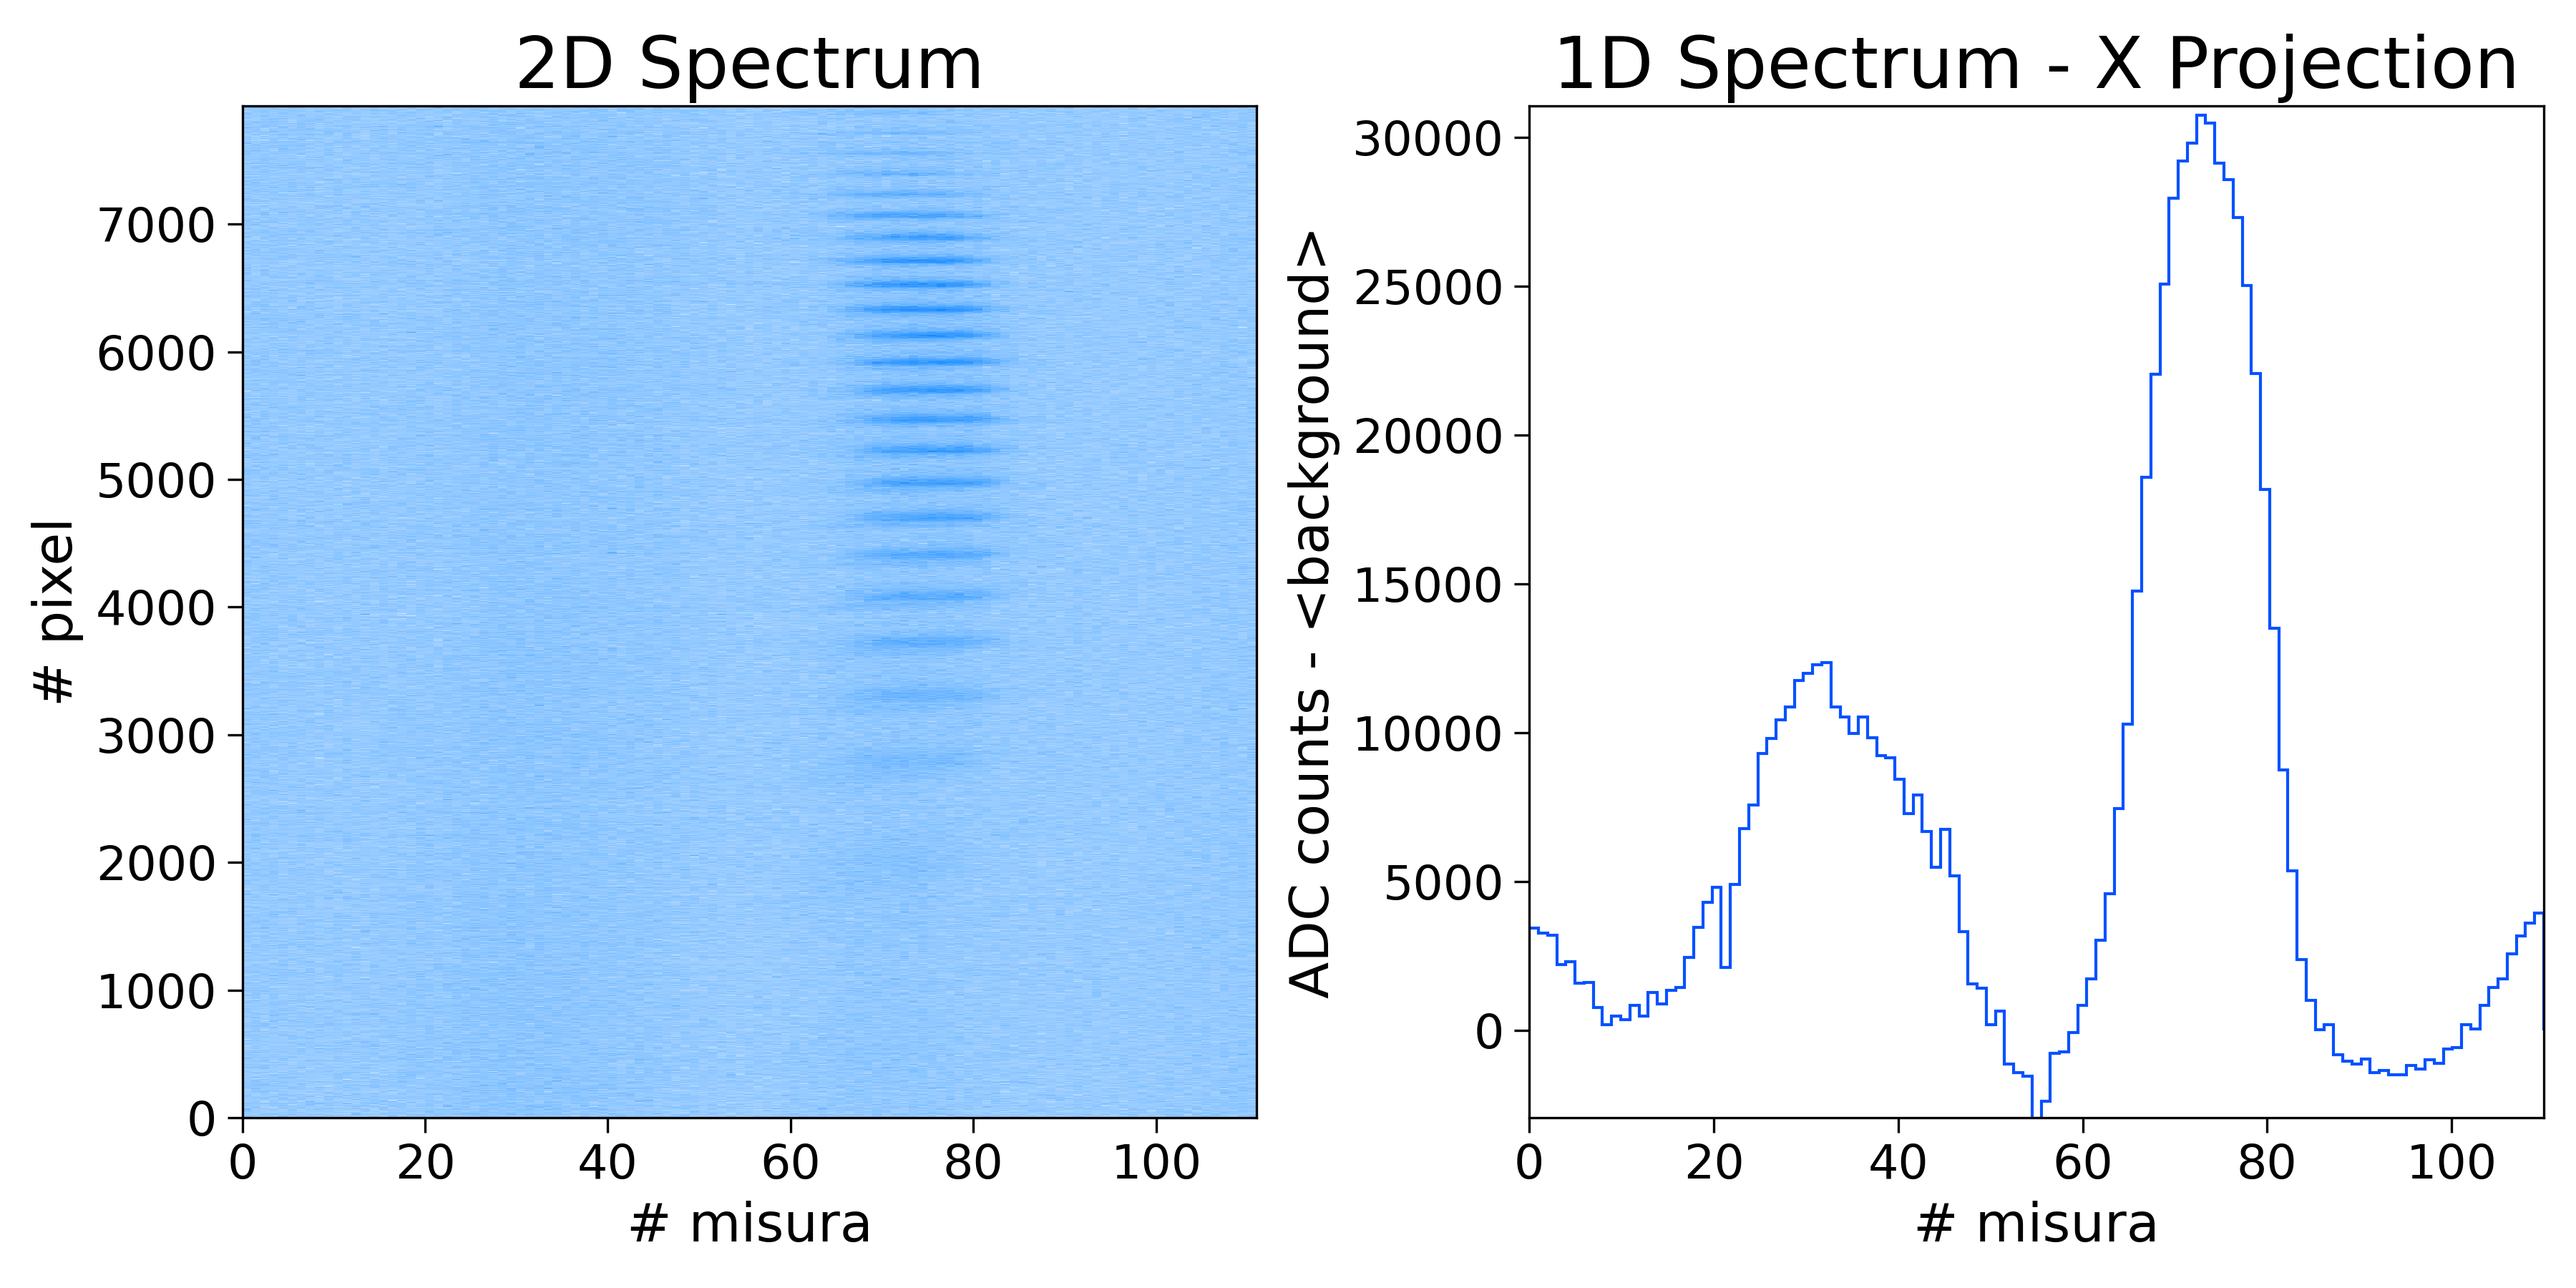
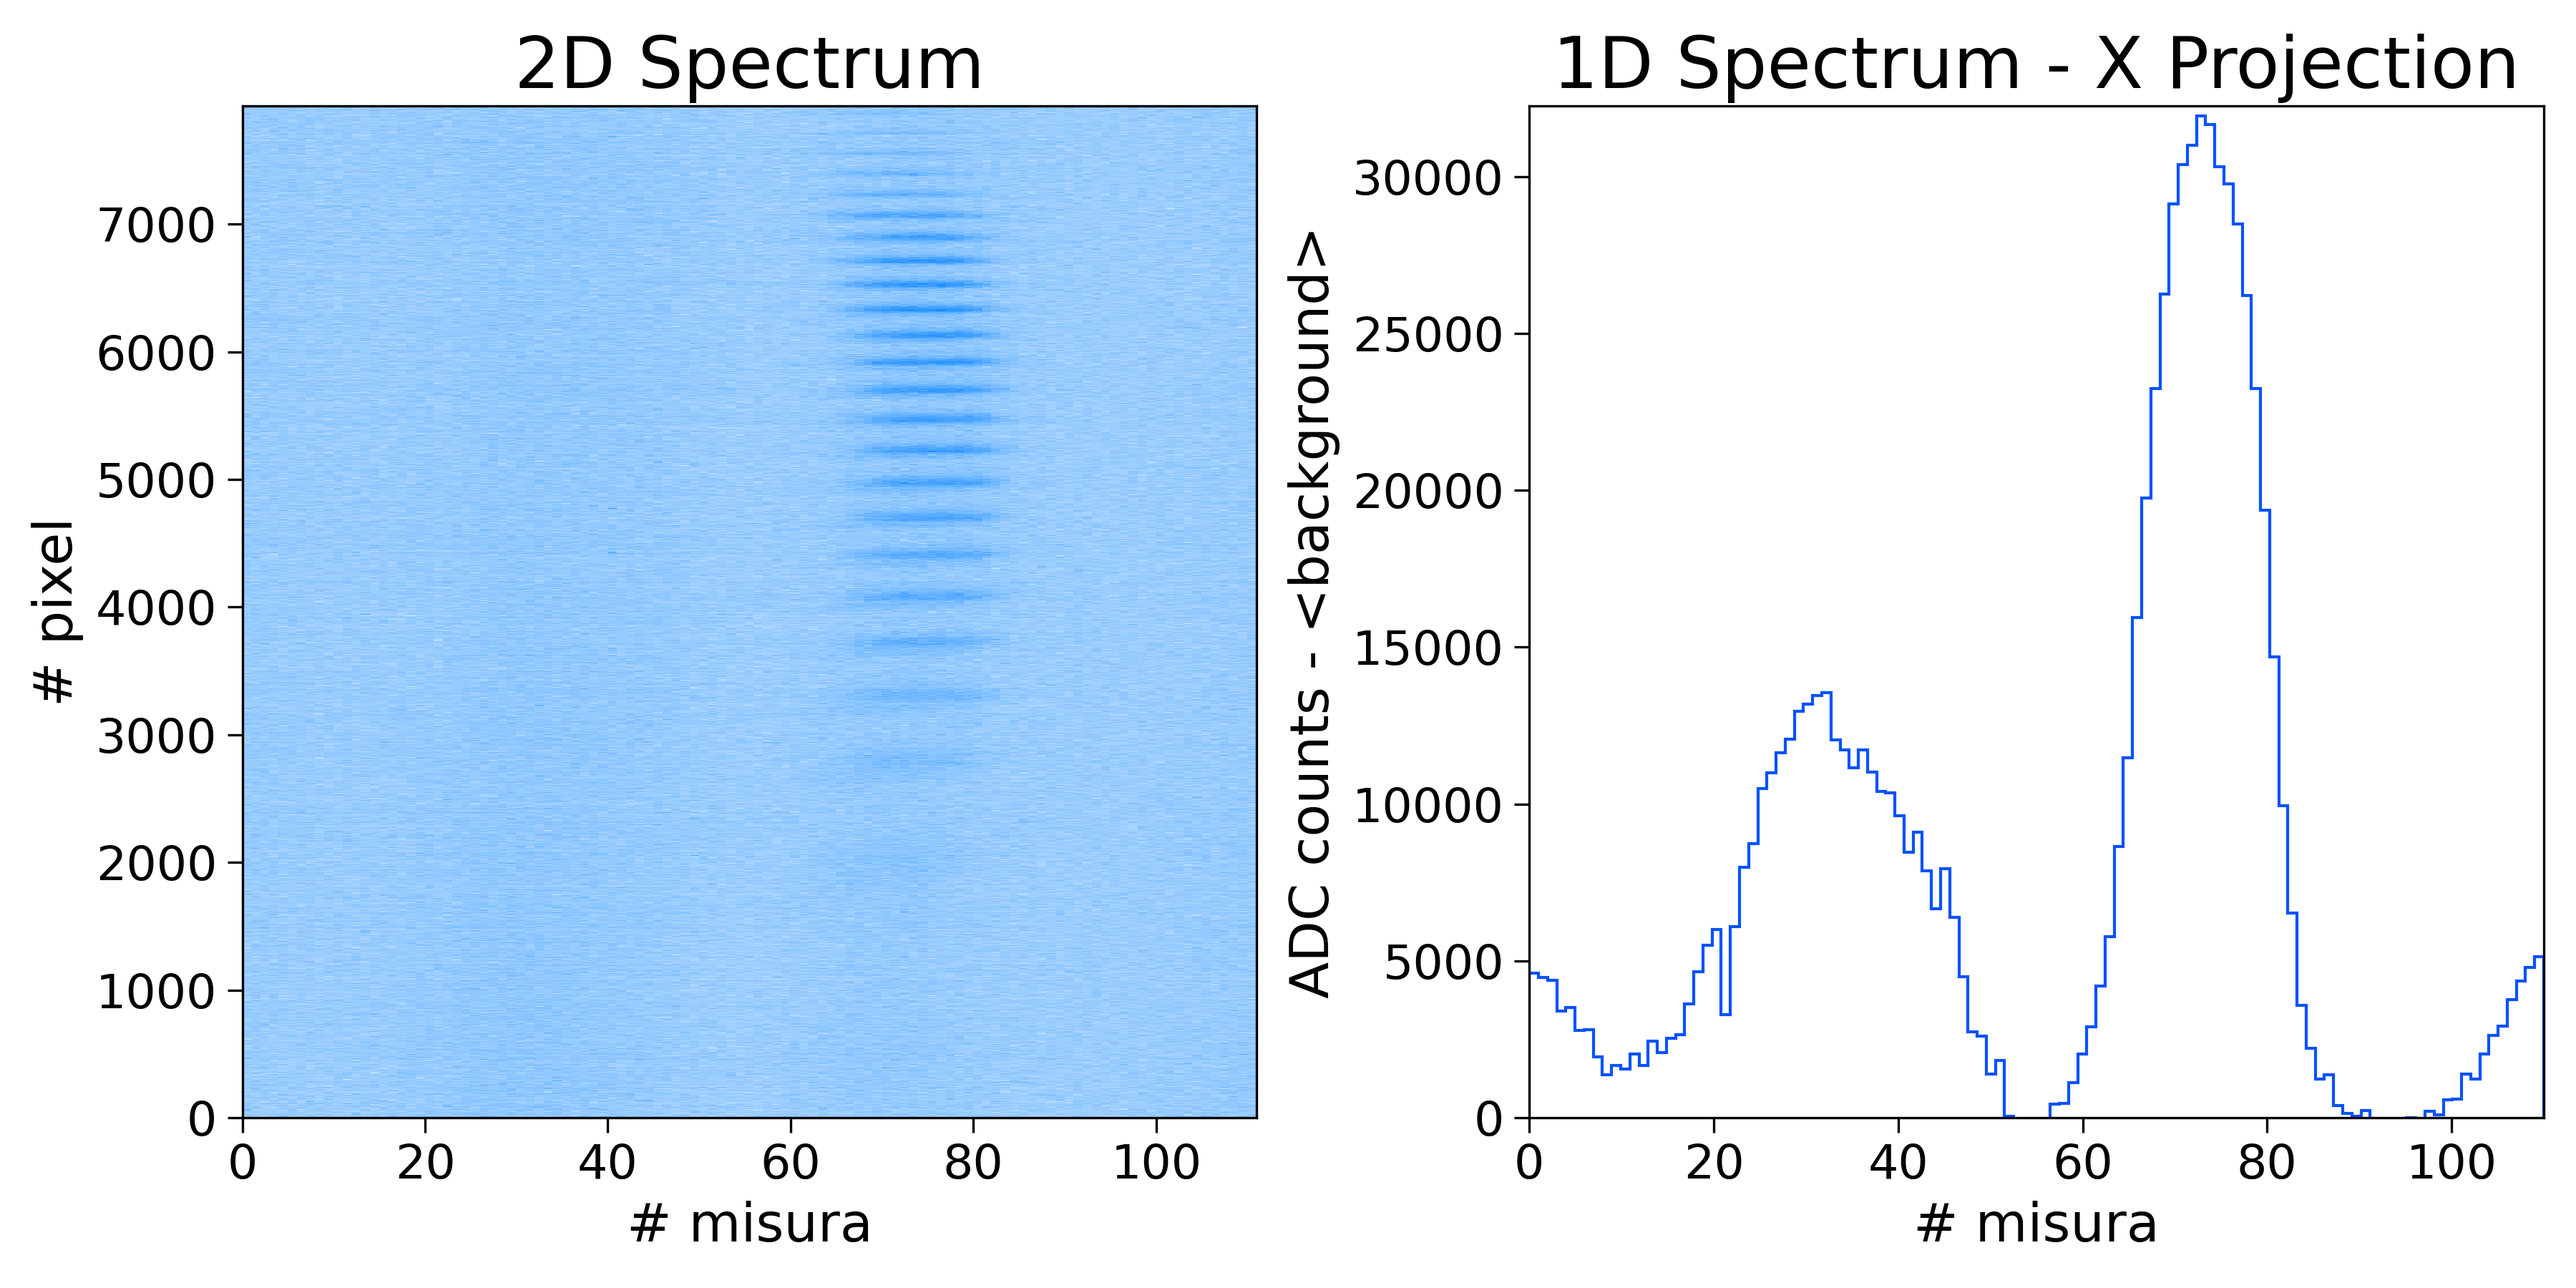
Updated plots

diff --git a/EFFETTO ZEEMAN/Code/zeemanPlot.py b/EFFETTO ZEEMAN/Code/zeemanPlot.py
@@ -132,10 +132,10 @@ def main(argv):
     ax2.set_xlabel('# misura', fontsize = 18)
     ax2.set_ylabel('ADC counts - <background>', fontsize = 18)
     ax2.tick_params(axis = 'both', which = 'major', labelsize = 16, direction = 'out', length = 5)
-    # ax2.set_ylim(bottom = 0)
+    ax2.set_ylim(bottom = 0)
 
     fig.tight_layout()
-    # fig.savefig('../Plots/test.png', dpi = 300, facecolor = 'white')
+    # fig.savefig('../Plots/Boff_2d_spectrum.png', dpi = 300, facecolor = 'white')
     plt.show()
 
 
